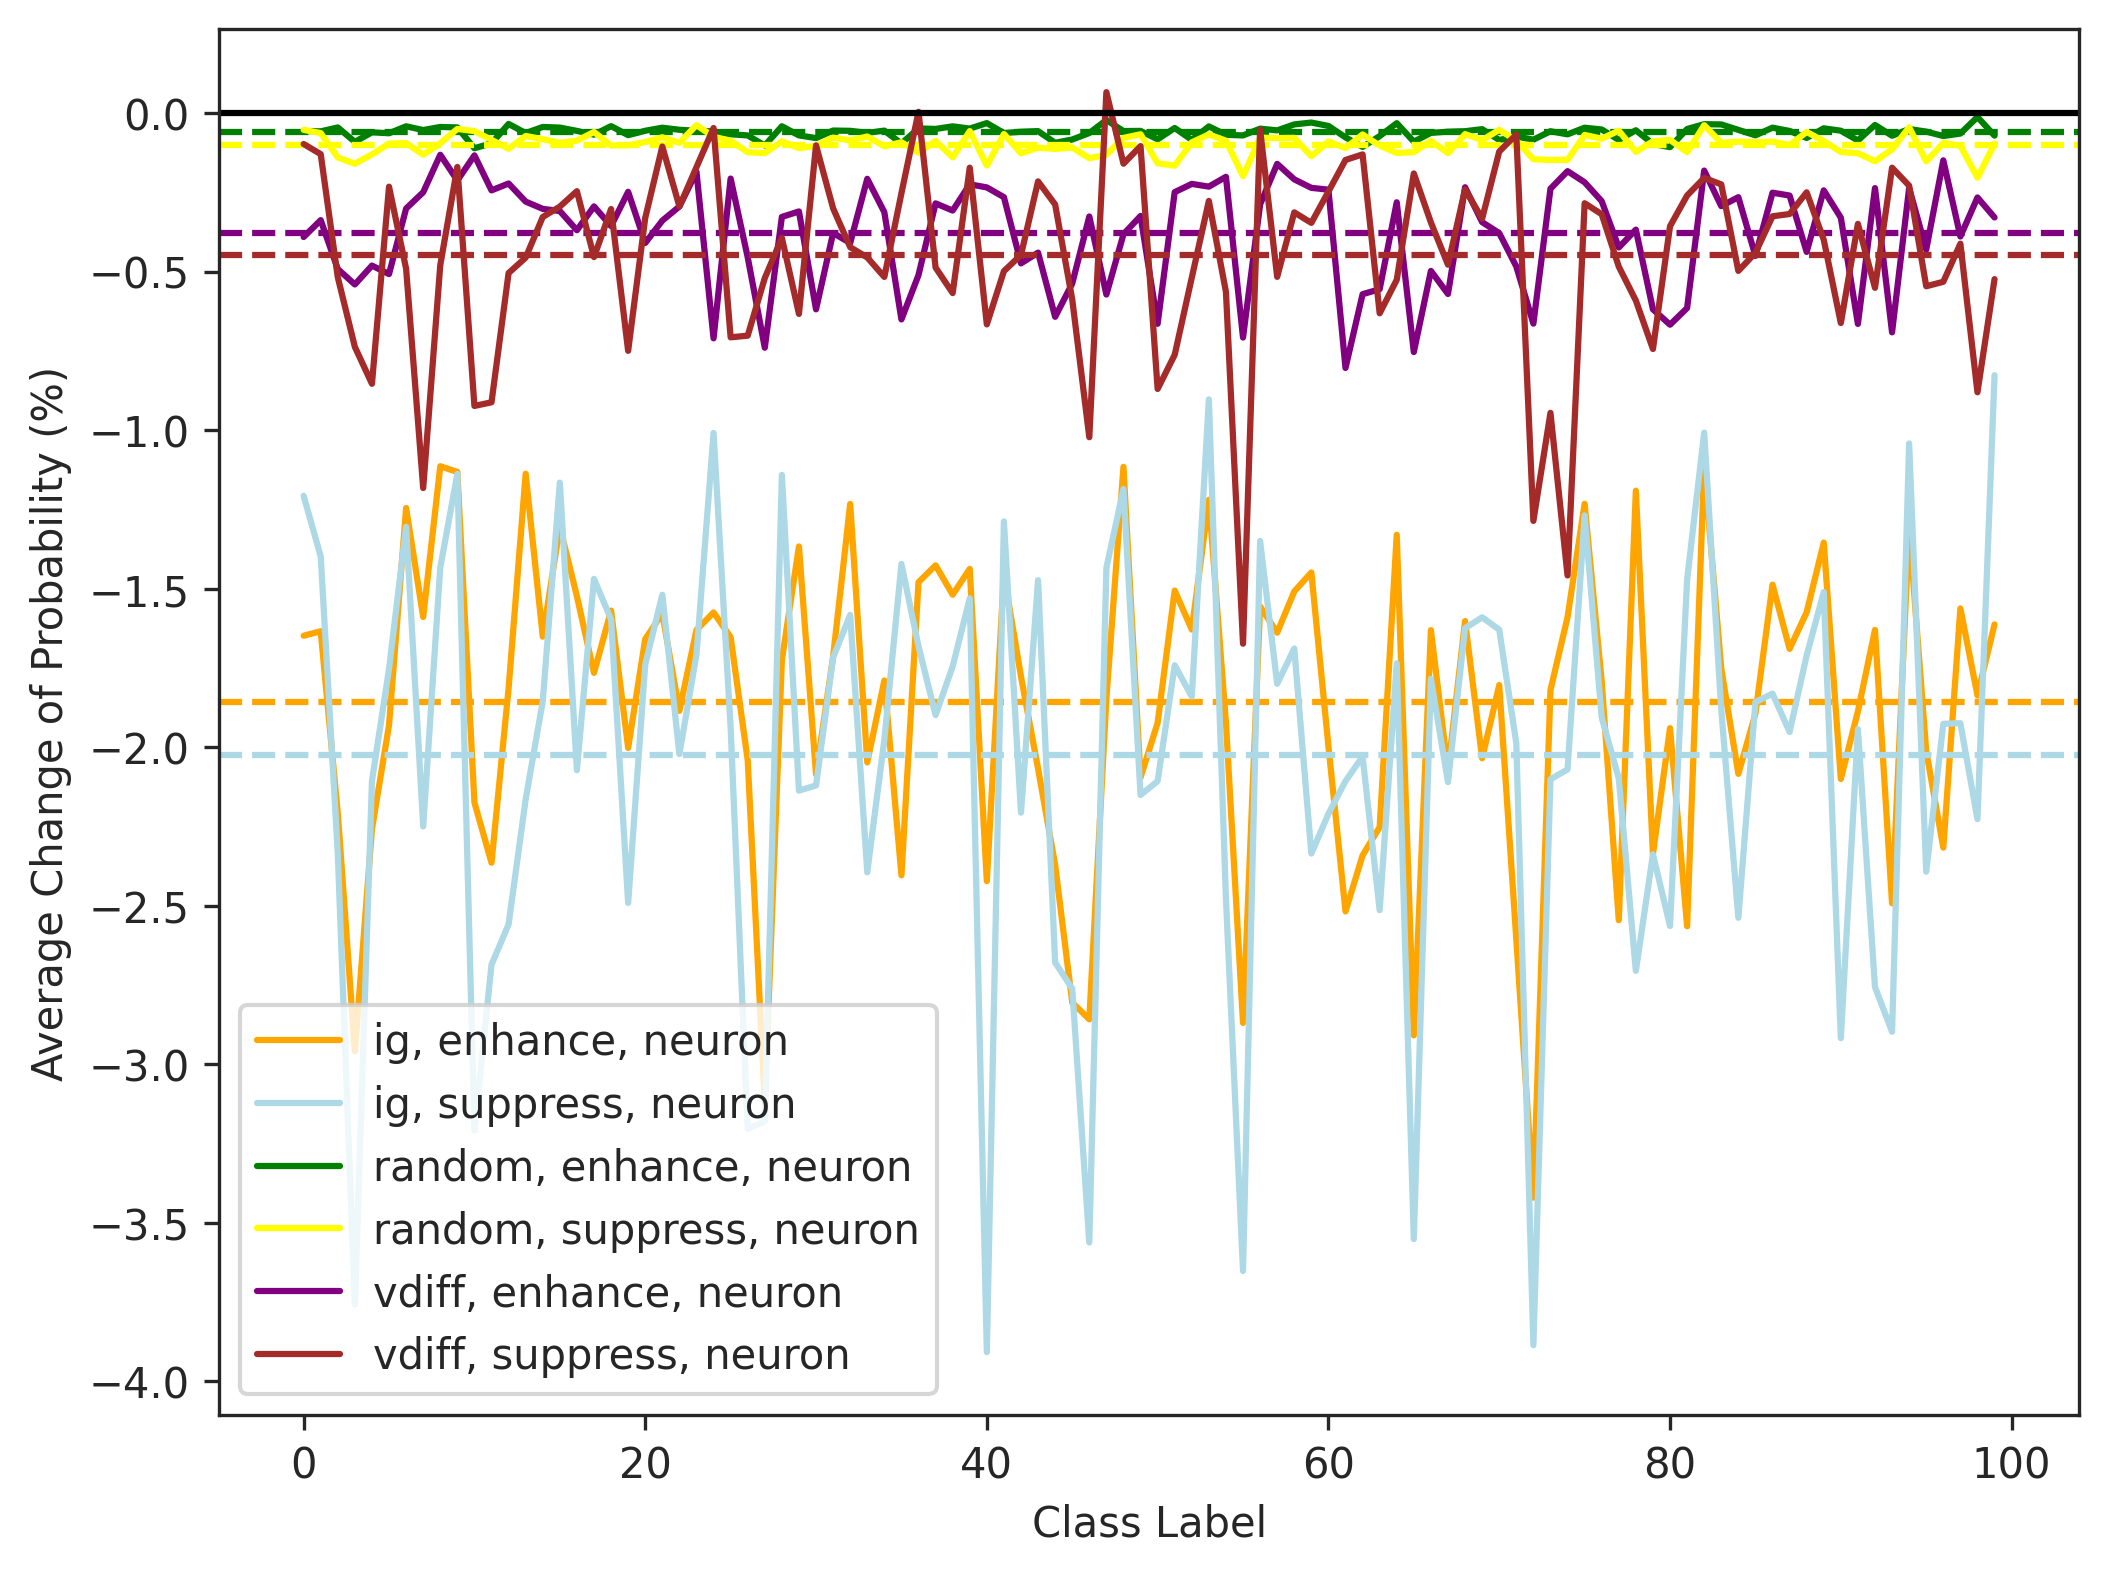
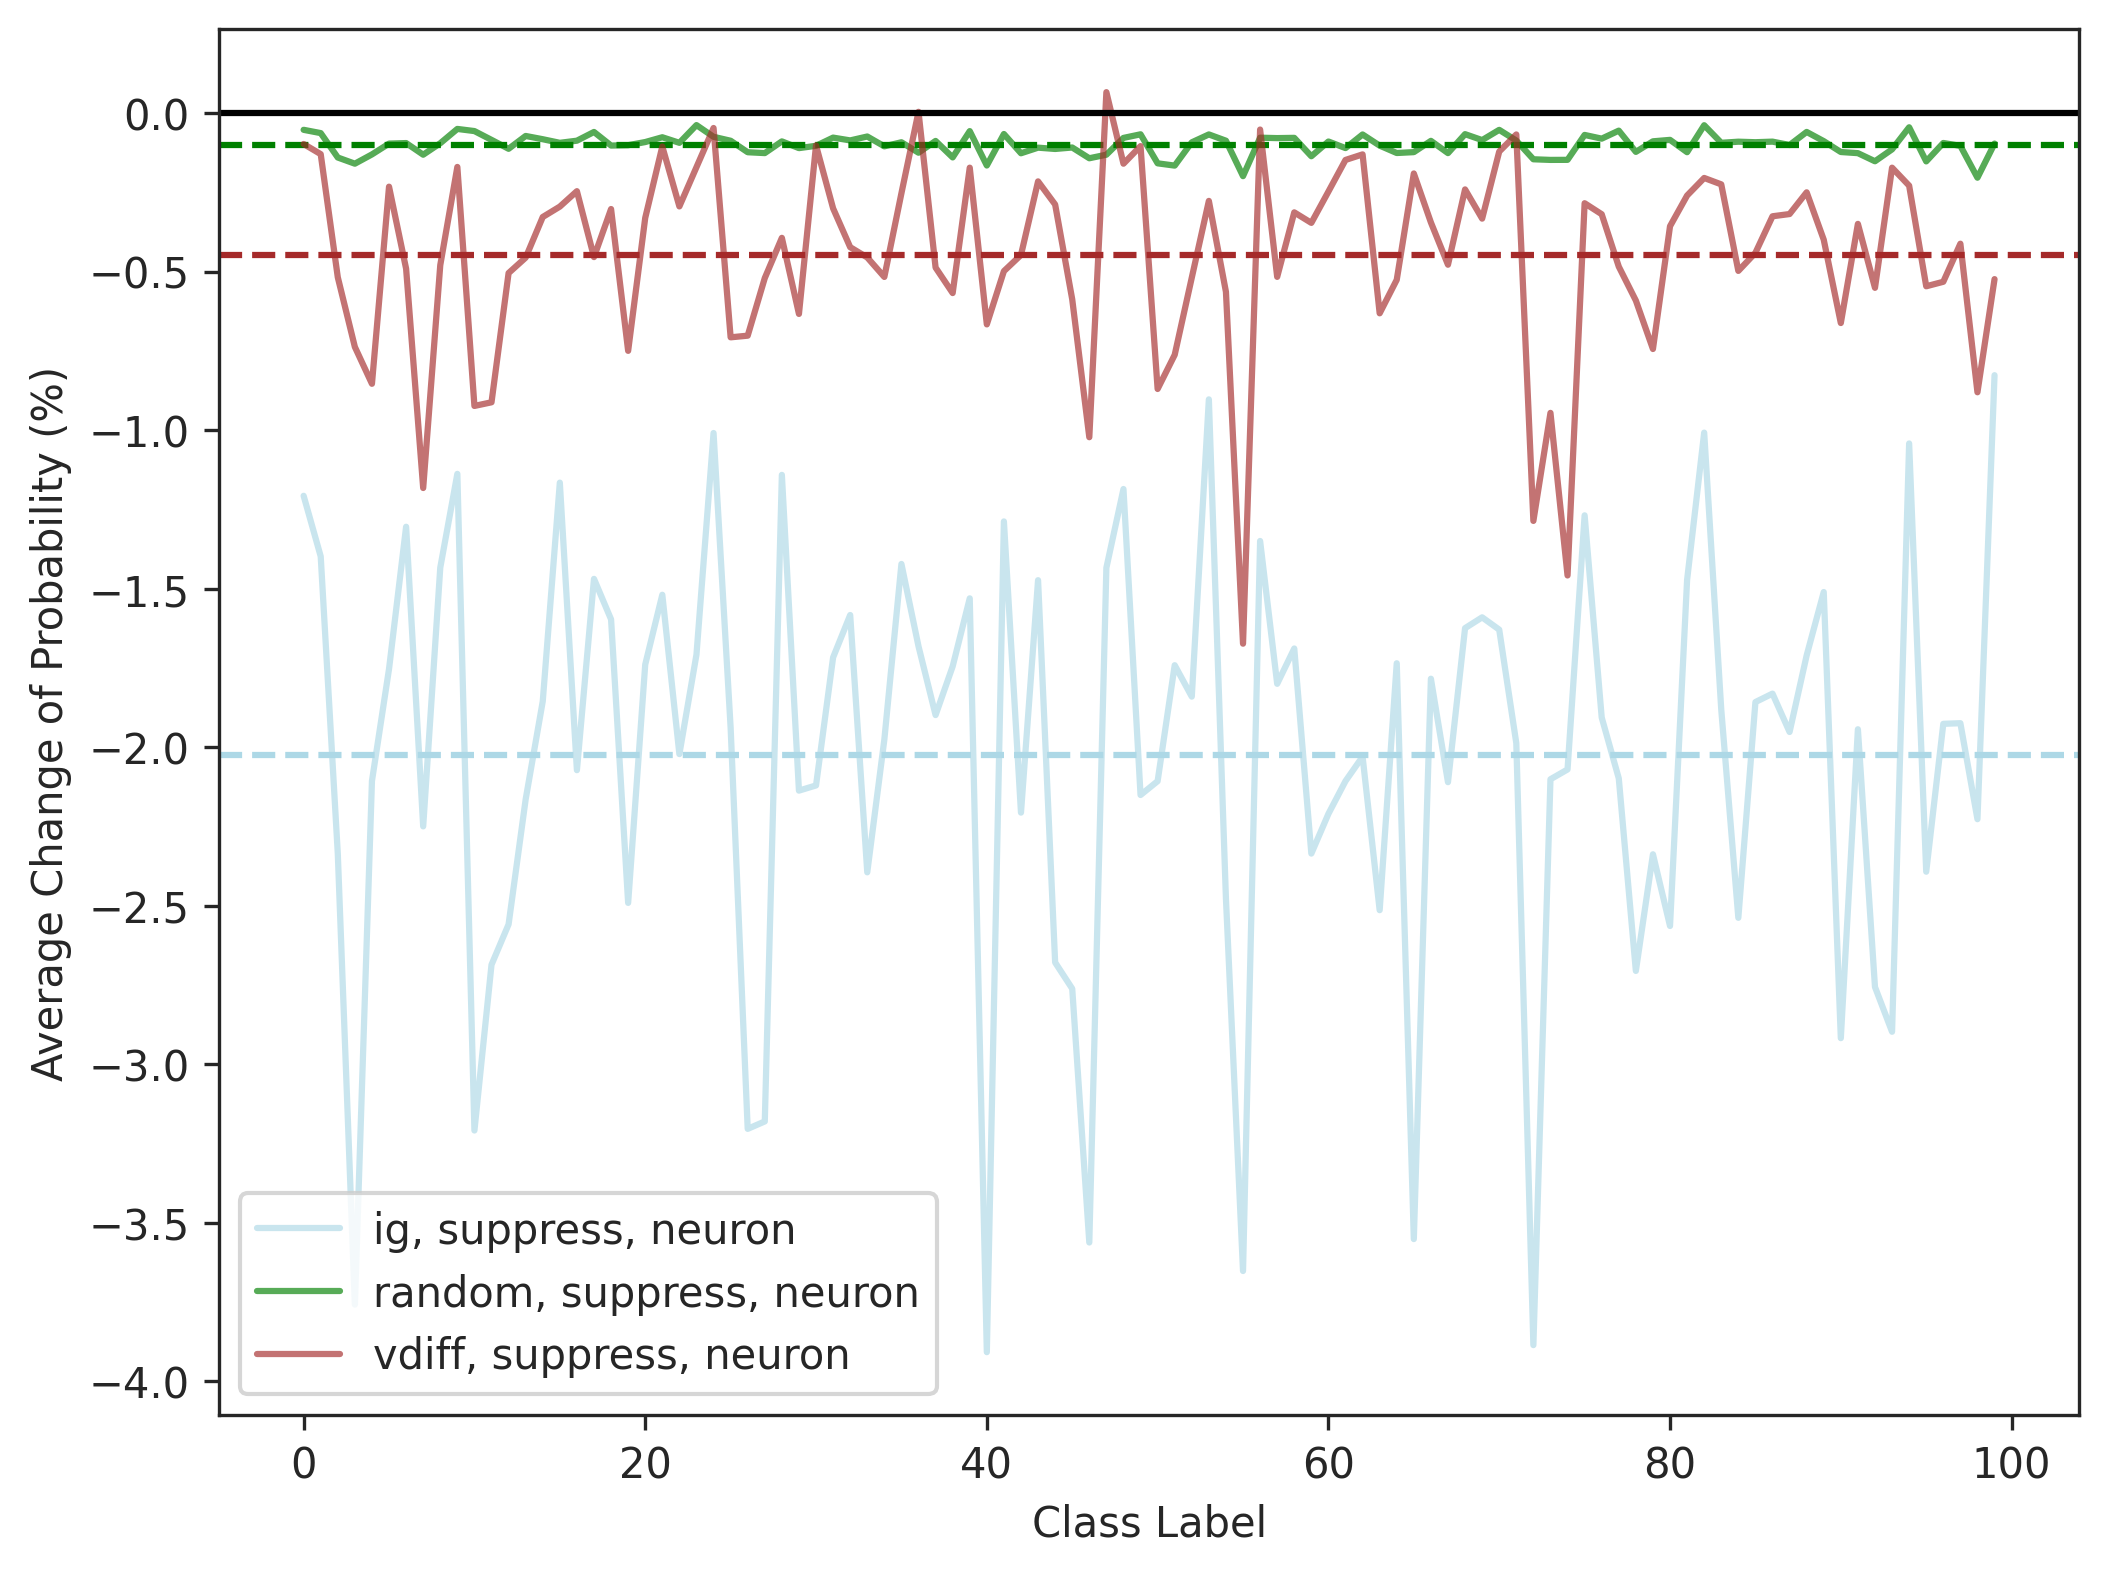
done exp-fl-2

Changed region(s): [[0.0925, 0.0622, 0.9862, 0.8711], [0.5856, 0.6844, 0.6164, 0.8089], [0.1233, 0.3733, 0.1541, 0.4044]]

diff --git a/src/exp-fl-2-3.py b/src/exp-fl-2-3.py
@@ -1,4 +1,5 @@
 import os, sys, time, pickle, json, math
+import shutil
 import torch
 from tqdm import tqdm
 from collections import defaultdict
@@ -32,7 +33,7 @@ def get_save_dir(pretrained_dir, tgt_rank, misclf_type, fpfn):
         )
     return save_dir
 
-def main(ds_name, k, tgt_rank, misclf_type, fpfn, fl_method):
+def main(ds_name, k, tgt_rank, misclf_type, fpfn, fl_method, n=NUM_IDENTIFIED_NEURONS):
     device = get_device()
     print(f"ds_name: {ds_name}, fold_id: {k}, tgt_rank: {tgt_rank}, misclf_type: {misclf_type}, fpfn: {fpfn}")
     
@@ -41,10 +42,8 @@ def main(ds_name, k, tgt_rank, misclf_type, fpfn, fl_method):
     tgt_layer = 11 # NOTE: we only use the last layer for repairing
     
     if fl_method == "ig":
-        n = NUM_IDENTIFIED_NEURONS 
         fl_target = "neuron"
     elif fl_method == "bl":
-        n = None
         fl_target = "weight"
     
     # datasetをロード (true_labelsが欲しいので)
@@ -71,11 +70,18 @@ def main(ds_name, k, tgt_rank, misclf_type, fpfn, fl_method):
     # localization結果をロード
     print(f"method_name: {fl_method}")
     if fl_method == "ig": # ig の場合は特定するニューロン数nを設定できる
-        location_save_path = os.path.join(save_dir, f"exp-fl-2_location_n{n}_neuron_{fl_method}.npy")
+        location_save_path = os.path.join(save_dir, f"exp-fl-2_location_n{n}_{fl_target}_{fl_method}.npy")
         proba_save_dir = os.path.join(save_dir, f"exp-fl-2_proba_n{n}_{fl_method}")
     elif fl_method == "bl": # bl の場合は特定する重みの数は特定できない (pareto front を取るので)
-        location_save_path = os.path.join(save_dir, f"exp-fl-2_location_weight_{fl_method}.npy")
-        proba_save_dir = os.path.join(save_dir, f"exp-fl-2_proba_{fl_method}")
+        # 古いディレクトリを削除
+        old_location_save_path = os.path.join(save_dir, f"exp-fl-2_location_weight_{fl_method}.npy")
+        old_proba_save_dir = os.path.join(save_dir, f"exp-fl-2_proba_{fl_method}")
+        for old_dir in [old_location_save_path, old_proba_save_dir]:
+            if os.path.exists(old_dir):
+                shutil.rmtree(old_dir)
+                print(f"removed {old_dir}")
+        location_save_path = os.path.join(save_dir, f"exp-fl-2_location_n{n}_{fl_target}_{fl_method}.npy")
+        proba_save_dir = os.path.join(save_dir, f"exp-fl-2_proba_n{n}_{fl_method}")
     os.makedirs(proba_save_dir, exist_ok=True)
     places_to_fix = np.load(location_save_path, allow_pickle=True)
     # check for places_to_fix
@@ -165,8 +171,6 @@ if __name__ == "__main__":
     fl_method_list = ["ig", "bl"]
     for k, tgt_rank, misclf_type, fpfn, fl_method in product(k_list, tgt_rank_list, misclf_type_list, fpfn_list, fl_method_list):
         print(f"k: {k}, tgt_rank: {tgt_rank}, misclf_type: {misclf_type}, fpfn: {fpfn}, fl_method: {fl_method}")
-        if fl_method == "ig": # TODO: blだけ実行したいので一時的なスキップ
-            continue 
         if (misclf_type == "src_tgt" or misclf_type == "all") and fpfn is not None: # misclf_type == "src_tgt" or "all"の時はfpfnはNoneだけでいい
             continue
         if misclf_type == "all" and tgt_rank != 1: # misclf_type == "all"の時にtgt_rankは関係ないのでこのループもスキップすべき

diff --git a/src/exp-fl-2-5.py b/src/exp-fl-2-5.py
@@ -42,14 +42,16 @@ if __name__ == "__main__":
     for target in grouped_df["fl_target"].unique():
         # op, fl_method, fl_targetの組み合わせごとにdiff_probaの平均をプロット
         plt.figure(figsize=(8, 6))
-        color_list = ["red", "blue", "orange", "lightblue", "green", "yellow", "purple", "brown", "pink", "gray"]
+        color_list = ["red", "blue", "orange", "lightblue", "yellow", "green", "purple", "brown", "pink", "gray"]
         for i, (fl_method, fl_target, op) in enumerate(
             product(grouped_df["fl_method"].unique(), [target], grouped_df["op"].unique())
         ):
             subset = grouped_df[(grouped_df["op"] == op) & (grouped_df["fl_method"] == fl_method) & (grouped_df["fl_target"] == fl_target)]
             if len(subset) == 0:
                 continue
-            plt.plot(subset["label"], subset["mean_diff_proba"], label=f"{fl_method}, {op}, {fl_target}", color=color_list[i])
+            if op == "enhance":
+                continue # pruningした時の結果だけを載せたいので，suppressのみ
+            plt.plot(subset["label"], subset["mean_diff_proba"], label=f"{fl_method}, {op}, {fl_target}", color=color_list[i], alpha=0.66)
             mean_of_means = subset["mean_diff_proba"].mean()
             plt.axhline(mean_of_means, color=color_list[i], linestyle="--")
         plt.axhline(0, color="black", linestyle="-")

diff --git a/src/exp-fl-2-4.py b/src/exp-fl-2-4.py
@@ -1,4 +1,5 @@
 import os, sys, time, pickle, json, math
+import shutil
 from tqdm import tqdm
 from collections import defaultdict
 from itertools import product
@@ -50,13 +51,9 @@ def main(ds_name, k, tgt_rank, misclf_type, fpfn, fl_method):
     # 結果とかログの保存先
     save_dir = get_save_dir(pretrained_dir, tgt_rank, misclf_type, fpfn)
     # 予測確率のリストの保存先
-    if fl_method == "ig":
-        n = NUM_IDENTIFIED_NEURONS
-        proba_save_dir = os.path.join(save_dir, f"exp-fl-2_proba_n{n}_{fl_method}")
-    else:
-        n = None
-        proba_save_dir = os.path.join(save_dir, f"exp-fl-2_proba_{fl_method}")
-    
+    n = NUM_IDENTIFIED_NEURONS
+    proba_save_dir = os.path.join(save_dir, f"exp-fl-2_proba_n{n}_{fl_method}")
+        
     # このpythonのファイル名を取得
     this_file_name = os.path.basename(__file__).split(".")[0]
     exp_name = f"exp-fl-2_{this_file_name}"

diff --git a/transformers-4.30.2/src/transformers/models/vit/modeling_vit.py b/transformers-4.30.2/src/transformers/models/vit/modeling_vit.py
@@ -294,7 +294,7 @@ class ViTAttention(nn.Module):
     ) -> Union[Tuple[torch.Tensor, torch.Tensor], Tuple[torch.Tensor]]:
         self_outputs = self.attention(hidden_states, head_mask, output_attentions)
 
-        attention_output = self.output(self_outputs[0], hidden_states)
+        attention_output = self.output(self_outputs[0], hidden_states) # linear transformation for MHA output.
 
         outputs = (attention_output,) + self_outputs[1:]  # add attentions if we output them
         return outputs

diff --git a/src/exp-fl-3.md b/src/exp-fl-3.md
@@ -1,0 +1,20 @@
+# exp-fl-3: V-scoreベースFLの拡張
+## 勾配への着目
+- Arachneのように単純にロスの勾配もヒントに使う
+- 正解確率などを評価したいのでロスの勾配を使うのは効くはず
+- V-scoreでニューロンを特定してから，ロスの勾配で重みを特定するっていうのがいいかな？
+
+## アテンションに着目
+- MHAの後のSelfOutputレイヤを狙っている (Wは正方行列，つまり状態サイズを変えない変換)
+- ここのレイヤに対して，MHAの後であることを活かしたFLをしてWの重みを特定したい．
+- Wの列番号によってヘッドの番号を特定できる．そこから特定のヘッドに対する操作だけを変えることができる．
+- FFN部分と全く別のことしてるように見えるのでどうまとめるか
+- 着目しない場合でも，アテンションの情報がFFNで変換されるのでこっちの方が重要と言えばいい
+
+# 必要なスクリプト
+
+# 評価方法
+
+# 期待する結果
+
+# 実際の結果

diff --git a/src/exp-fl-2.md b/src/exp-fl-2.md
@@ -50,6 +50,7 @@ randomよりは変化があってくれ．
 - 修正の成功は「変更する場所」と「変更する内容」の2つのファクターからなる．
     - 「変更する場所」：結果が大きく変化するような場所を変更した方が修正がうまくいくと仮定する．いじっても出力に影響しない重みは変えたくない．このRQ1ではそれをチェックしたい．つまり，変化の絶対値が重要なのであって，符号は重要ではない．
     - 「変更する内容」：そのような結果が変わるポテンシャルのある場所に限って，適切なパッチを適用することで，修正を成功させるのがRQ2．
+- enhanceで二倍するのがやっぱりよくわからないので，0にすることでそれらの重みを無効化するとどうなるか，という観点で行きたい．
 
 ## 時間の比較
 [exp-fl-1の結果にigとblをそれぞれ追加したのを載せる]
